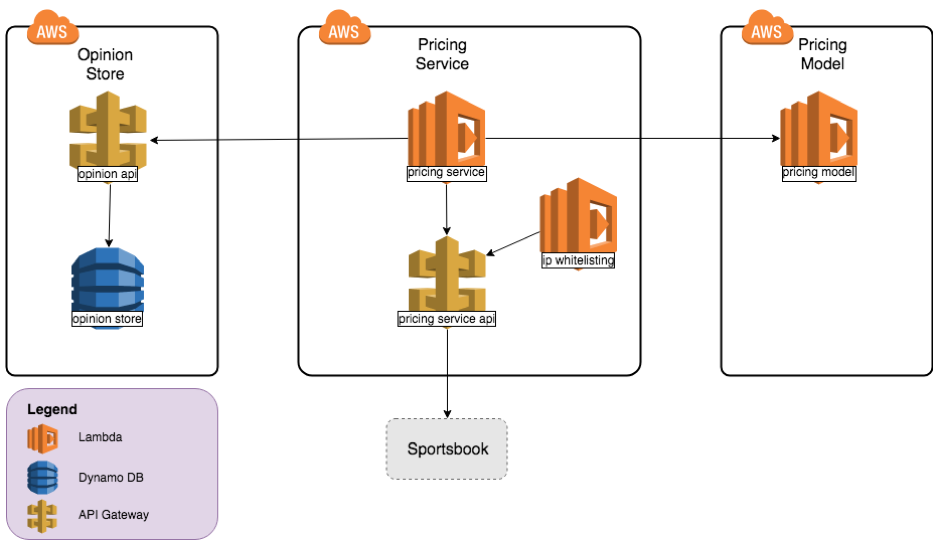
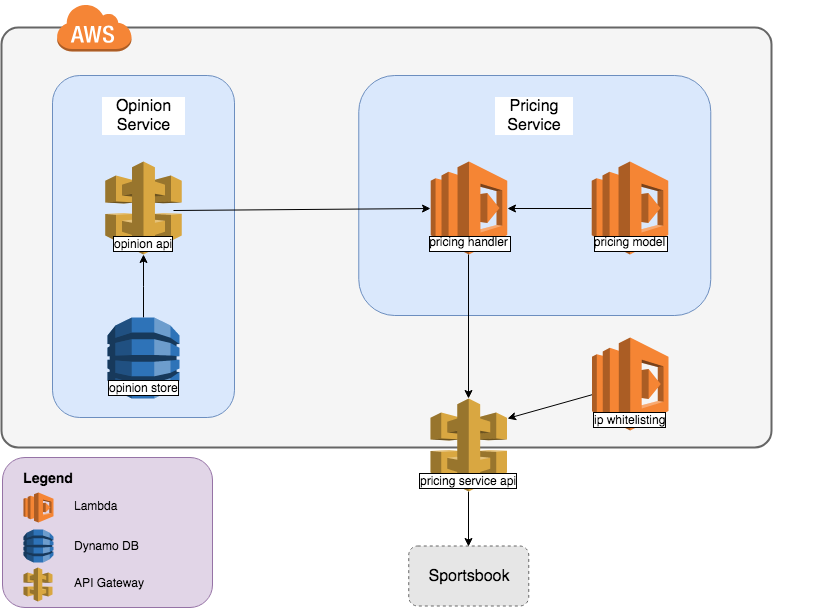
updated diagrams

diff --git a/_posts/2018-11-02-optimising-microservices-part-1.md b/_posts/2018-11-02-optimising-microservices-part-1.md
@@ -4,7 +4,7 @@ title:      Optimising an AWS microservice - Part 1
 date:       2018-11-02
 summary:    In this two part post we'll talk about our learnings from optimising an AWS microservice to reduce latency and hit non-functional targets
 author:     jamie_munro
-image:      //TODO add image
+image:      optimising-aws-microservice/01-initial-system
 tags:       aws, serverless, cloud, microservices
 category:   Cloud Computing
 ---
